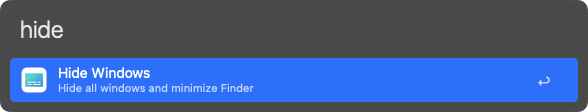
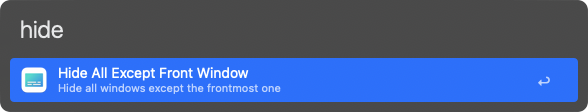
Update README and images for hideall functionality; replace hide option image and add new hideall image

Changed region(s): [[0.1531, 0.5893, 0.4286, 0.6964], [0.2449, 0.75, 0.4898, 0.8304]]

diff --git a/README.md b/README.md
@@ -23,7 +23,7 @@ Hide all active windows except the frontmost one:
 
 ### Hide all active windows (hideall)
 
-<img src="img/hide-option.png" alt="Alfred hide all windows image" width="65%"/>
+<img src="img/hideall.png" alt="Alfred hide all windows image" width="65%"/>
 
 Hide all active windows, including the frontmost one, across all desktops:
 
